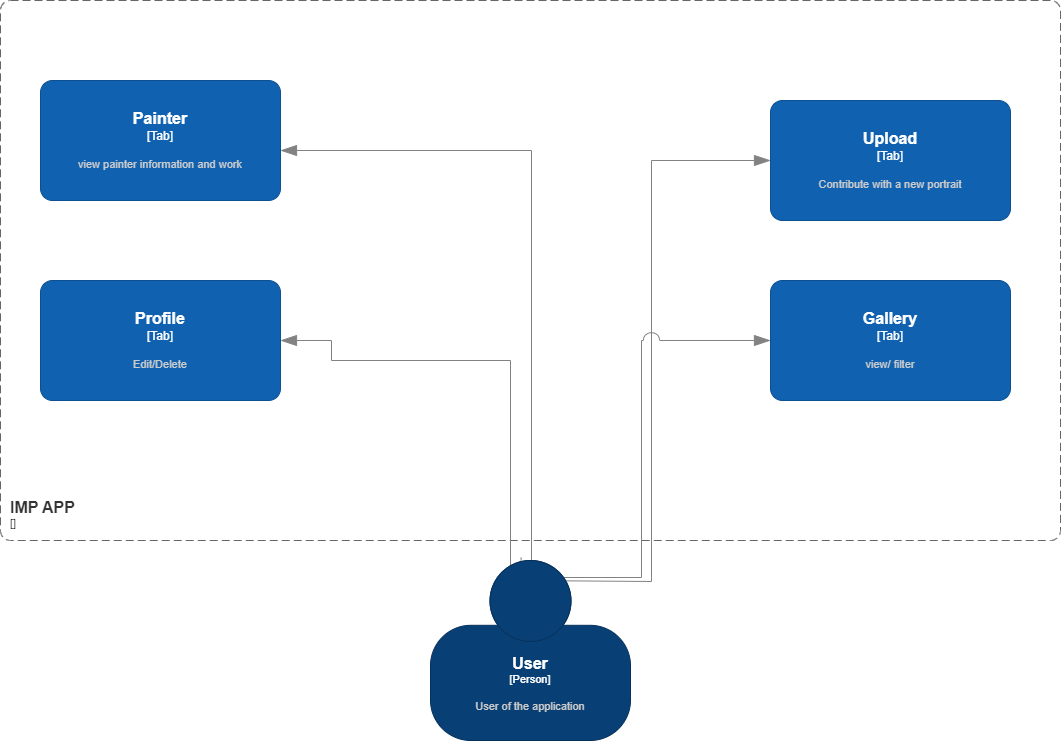
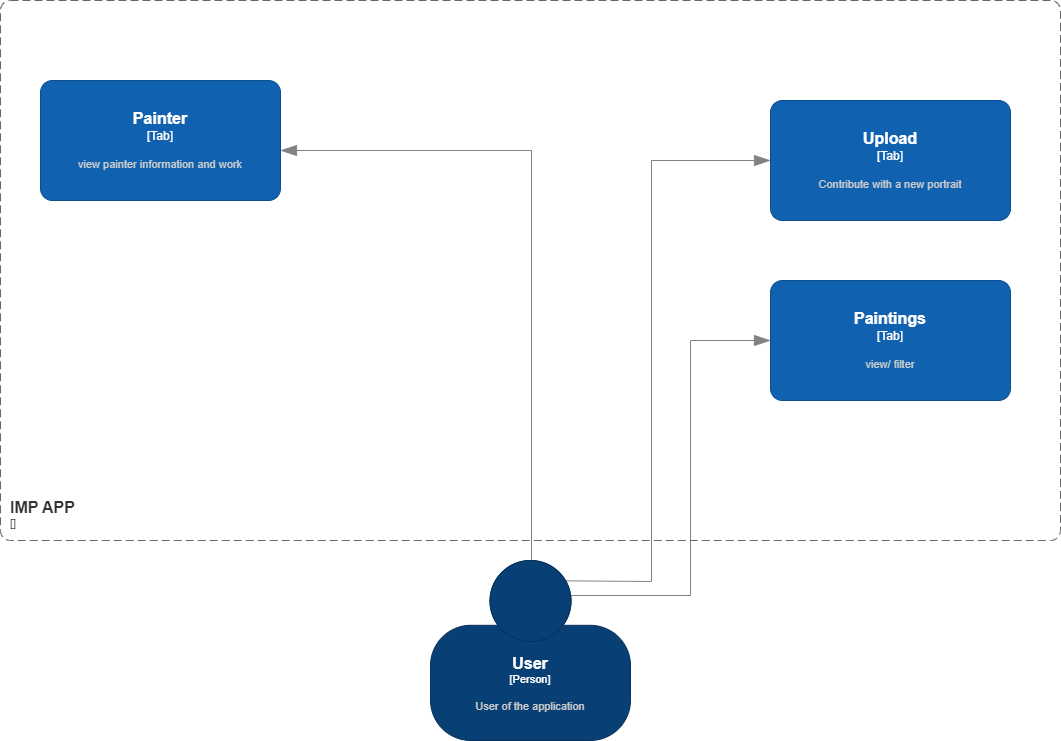
scholarly

Changed region(s): [[0.0311, 0.3725, 0.2799, 0.5587], [0.8087, 0.4035, 0.8709, 0.4345]]

diff --git a/Midterm Deliverables/scholarly.html b/Midterm Deliverables/scholarly.html
@@ -3,13 +3,25 @@
 <head>
     <title>Technical Report: ImP Project Solution</title>
     <meta name="description" content="A technical report on a web application that provides detailed analysis of portraits from 1900 - 1950 using DeepFace.">
-    <link rel="stylesheet" type="text/css" href="styles.css">
+    <!-- <link rel="stylesheet" type="text/css" href="styles.css"> -->
+    <link rel="stylesheet" type="text/css" href="scholarly.min.css">
 </head>
 <body>
     <header>
-        <h1>Technical Report: ImP Project Solution</h1>
+        <h1>Technical Report:<br> ImP Project Solution</h1>
         <p>A browsing image system for portraits from 1850 - 1950 using DeepFace and Wikipedia API.</p>
     </header>
+    <div role="contentinfo">
+        <dl>
+            <dt>Authors</dt>
+            <dd>
+                Maria-Ecaterina Olariu
+                &amp;
+                Ioana-Malina Pinzariu
+
+            </dd>
+        </dl>
+    </div>
     <main>
         <div id="table-of-contents">
             <h2>Table of Contents</h2>
@@ -20,7 +32,10 @@
                 <li><a href="#data-structures">Data Structures / Models</a></li>
                 <li><a href="#ontology">Data representation</a></li>
                 <li><a href="#data-flow">Data Flow</a></li>
-                <li><a href="#user-guide">Use Cases</a></li>
+                <li><a href="#api">Api</a></li>
+                <li><a href="#use-cases">Use Cases</a></li>
+                <li><a href="#user-guide">User guide</a></li>
+                <li><a href="#data-vizualization">Data vizualization</a></li>
                 <li><a href="#linked-data-principles">Conformance to Linked Data Principles</a></li>
                 <li><a href="#rdf-model">Conformation to RDF model</a></li>
                 <li><a href="#preliminary-considerations">Preliminary Considerations</a></li>
@@ -34,7 +49,7 @@
         </section>
         <section id="architecture">
             <h2>Architecture</h2>
-            <p>The application consists of multiple components including a frontend part in Angular, an ASP.NET Core server and Flask. The project includes a user service that manages the authentication, as well as data management services: painting and painters.
+            <p>The application consists of multiple components including a frontend part in Angular, and a Flask server. The project includes a user service that manages the authentication, as well as data management services: painting and painters.
                 This modules are designed as microservices and all the information is stored in MongoDB Atlas.
             </p>
             <h3>General</h3>
@@ -51,11 +66,12 @@
         </section>
         <section id="data-structures">
             <h2>Data Structures / Models</h2>
-            <p>Structure of the database is made of two main entities: Painters and Paintings. Another entity would be the user that will require some form of authentication in order to get the privilege of uploading portraits and contributing to the dataset.</p>
+            <p>Structure of the database is made of two main entities: Painters and Paintings.</p>
 
-            <p>The main format of our data is JSON. This is the reason why we chose MongoDB as our database system. As previously stated, our main concern is the two main entities: Painters and Paintings. Each will become a collection of data:</p>
-            <p>Each document in the <b>Paintings collection</b> will represent a single painting. The document will contain fields for: the image itself, the name of the painter, and from DeepFace detection: the age, gender, race, and emotion. Following the JSON LD encoding specifications, we will also include “@context” and “@type” for each painting stating the context of our data - schema.org - and VisualArtwork for defining the type of data, respectively.</p>
-            <p>The <b>Painters collection</b> contains the representations of each painter. The document includes the following fields: the painter's name, the information from the Wikipedia API (such as the art current, years they were alive, and a short description). For “@context”, we will include schema.org and follow the vocabulary guidelines presented for description, art current, birth and death date. For “@type”, since we are referring to a person, it will remain Person.</p>
+            <p>The main format of our data is JSON. This is the reason why we chose MongoDB as our database system. Mongo is also a good choice from a security point of view, because we have the possibility to set a list of ips that have access to the database</p>
+            <p>As previously stated, our main concern is the two main entities: Painters and Paintings. Each will become a collection of data:</p>
+            <p>Each document in the <b>Paintings collection</b> will represent a single painting. The document will contain fields for: the image itself, the name of the painter, and from DeepFace detection: the age, gender, race, and emotion.</p>
+            <p>The <b>Painters collection</b> contains the representations of each painter. The document includes the following fields: the painter's name, the information from the Wikipedia API (such as the art current, years they were alive, and a short description). </p>
             <p>The Paintings and Painters data models are at the base of our application. In order to expose more functionalities and data about our paintings, we will include some Correlation Graphs for each painter to document their artistic choices. The correlations will be between the ages and emotions of the people portrayed and the gender and emotions. We are hopeful to find interesting associations or preferences of the painters. 
             </p>
             <p>In order to manage the data within our project, we have made use of the following main models which are aligned to the project's needs</p>
@@ -72,13 +88,12 @@
             </p>
                 <p>Ontology classes
                 <ul>
-                <li>
-                Painter: Represents individuals who create artefacts. This class encapsulates the attributes and relationships associated with painters.
-
-                </li>
-                <li>
-                    Portrait: Represents a certain type of art artifact. The portraits have attributes and relationships that were extracted using DeepFace and are related to the person in the portrait (ex: gender, race, age)
-                </li>
+                    <li>
+                        Painter: Represents individuals who create artefacts. This class encapsulates the attributes and relationships associated with painters.
+                    </li>
+                    <li>
+                        Portrait: Represents a certain type of art artifact. The portraits have attributes and relationships that were extracted using DeepFace and are related to the person in the portrait (ex: gender, race, age)
+                    </li>
                 </ul>
                 
             </p>
@@ -95,46 +110,106 @@
         </section>
         <section id="data-flow">
             <h2>Data Flow</h2>
-            <p>In this section we will describe how our data is being processed from start to finish. The journey of our data starts from the Kaggle dataset. The dataset only includes the images with a filename of pattern: “artist_name_number.jpg”. From the filename we will extract the name of the painter for each portrait. Since this is the only data about each painting that we have, so far, we will enrich it by using DeepFace analyze feature to add age, gender, race and emotion of each of the people in the portrait. The object returned by this library call also includes the position of the face, which we do not believe to be relevant for our application, only for the painter-paintings selection for sizing down our database later on. All this data, plus “@context” and “@type” VisualArtwork will constitute the JSON LD files for our database.
+            <p>In this section we will describe how our data is being processed from start to finish. The journey of our data starts from the Kaggle dataset. The dataset only includes the images with a filename of pattern: “artist_name_number.jpg”. From the filename we will extract the name of the painter for each portrait. Since this is the only data about each painting that we have, so far, we will enrich it by using DeepFace analyze feature to add age, gender, race and emotion of each of the people in the portrait. The object returned by this library call also includes the position of the face, which we do not believe to be relevant for our application, only for the painter-paintings selection for sizing down our database later on. 
             </p>
-            <p>After gathering all this data about our portraits, we move on to finding out more about our painters. To do so we will use Wikipedia API to search for a summary / description of the painter, the years it was alive and the art current they followed in their works. The “@type” for them is Person, and we add them to the painters collection of our Mongo database.</p>
+            <p>After gathering all this data about our portraits, we move on to finding out more about our painters. To do so we will use Wikipedia API to search for a summary / description of the painter, the years it was alive and the art current they followed in their works. Alter this step, we add them to the painters collection of our Mongo database.</p>
             <p>To be able to present all of our data, we will expose a few API endpoints from the backend of our application. We will then process the data in the frontend. Our users will be able to see a gallery view of some (or all) portraits, very similar to how the popular platform Pinterest looks like. Each painting will be clickable with a redirect to a page about the painter. The painter data on the page will be from the database and a correlation graph generated from querying the database.
             </p>
             <p>We will also have an upload image feature. For this feature, we will ask the user to choose from our list of painters and contribute with a portrait image that we do not feature from them. After making sure the image provided is of extension .jpeg/.jpg/.png/.gif, we will transmit this image and the name of the painter to be saved in our database. When saving to our database, there will be a Python script activated that processes the image using the DeepFace library to retrieve age, gender, race and emotion of the people in the uploaded image, in order to include this data in the JSON type file we will include in the database. </p>
+            <p>The last step our data goes through is inserting it into Blazegraph. For this we use a sparql query to insert information.</p>
+            <img src="../images/insert-query.png" alt="insert-example" width="850" height="350">
+        </section>
+        <section id="api">
+            <h2>API</h2>
+            <p>Our application implemented the APIs using Flask, due to its simplicity in launching a very simple server, capable of accepting multiple requests of different methods (POST, GET), accessing the request's data, handling user cookies, and having an easy way in which responses can be send back as JSON. The endpoints are described in much greater detail in the <a href="https://app.swaggerhub.com/apis/IOANAMALINA629/ImpWAPI/1" target="_blank">OpenAPI</a> specifications.</p>
+            <h3>Extrenal APIs</h3>
+            <p>We use DeepFaceAPI for facial attribute analysis which includes: age, gender, facial expression/emotion (anger, fear, neutral, sad, disgust, happiness, surprise) and race (Asian, White, Middle Eastern, Indian, Latino and Black) predictions. We call a function "analyze()" which takes as a parameter an image path and obtains for each portrait the data mentioned above.</p>
+            <p>We use the Wikipedia API to get information about each painter in the database, the ones we used are the years the artist lived, the artistic current and a short description of it</p>
+            <h3>Semantic API</h3>
+            <p>Our semantic API provides various endpoints that allow us to retrieve specific data based on our needs, such as getting portraits based on their emotion, retrieving a filtered list of portraits based on their painter, or getting the painter informaton for a selected portrait. All this information is integrated into our web application and can be accessed through the Portraits page.
+            </p>
+            <p>Valid html + RDFa generation: 
+                <br><img src="../images/rdfa.png" alt="rdfa" width="850" height="350">
+            <br><img src="../images/rdfa-graph.png" alt="rdfa-graph" width="850" height="350"><br>
+            </p>
+            <p>Valid jsonLD generation: 
+                <br><img src="../images/jsonld.png" alt="jsonld" width="850" height="350">
+                <br><img src="../images/jsonld-rep.png" alt="jsonLD" width="850" height="350"><br>
+            </p> 
+        
+            <p>Some sparql queries:
+                <br><img src="../images/insert-sparql.png" alt="sparql" width="850" height="350"/> 
+                <br><img src="../images/filter-sparql.png" alt="sparql" width="850" height="350"/><br>
+            </p>
         </section>
         <section id="use-cases">
             <h2>Use cases</h2>
             <h3>Task flows</h3>
-            <h4>Login/Register</h4>
-            <p>In order for the user to have access to our web application, it is mandatory to create an account first. This will be done with our custom login/register or we are considering allowing authentication using a service like Google, to make the process easier for users.
-                The Authentication Service is designed to be secure for users by implementing a method of storing and validating user credentials. For this reason, the password will be saved after is proccessed using an ecryption method, that involves a combination of hash and salt</p>
-                <img src="../images/login.png" alt="Login diagram" width="500" height="460">
             <h4>General user acccess</h4>
             <p>The user cam perform the following actions:
                 <ul>
-                    <li>Updating their personal profile.</li>
-                    <li>Deleting their profile</li>
-                    <li>Uploading a new image for existing painters</li>
+                    <li>Uploading a new image</li>
                     <li>View image gallery and filter the date acording to his preferences</li>
                     <li>Visualizing the painter information page</li> 
                 </ul>
                 <img src="../images/general-user.png" alt="general-user" width="500" height="460"/>
             </p>
-            <h4>Home/Gallery</h4>
+            <h4>Home/Paintings</h4>
             <p>On this page we will have a gallery of portraits from different painter. The user will be able to apply filters like: gender, painter and serch for images</p>
             <img src="../images/paintings.png" alt="paintings-gallery" width="500" height="460"/>
             <h4>Painter page</h4>
-            <p>The user can access thihs page by clicking on an image from the gallery. Here we will present some information abou the artist and some other paintings. The page allows the user to know information about the artist such as his artistic current and to discover other works of art.</p>
+            <p>The user can access this page by clicking on an image from the gallery. Here we will present some information abou the artist and some other paintings. The page allows the user to know information about the artist such as his artistic current and to discover other works of art.</p>
             <img src="../images/painter.png" alt="painter-page" width="500" height="460"/>
             <h4>Upload</h4>
-            <p>The upload page lets the user contribute to our paintings collection. The user will be able to upload a new painting from a painter we already have in our database, so we can have multiple recommendations</p>
+            <p>The upload page lets the user contribute to our paintings collection. The user will be able to upload a new painting, so we can have multiple recommendations</p>
             <img src="../images/upload.png" alt="upload-process" width="500" height="460"/>
-            <h4>User Profile</h4>
-            <p>The user will be able to view his profile, make changes and even delete his account</p>
-            <img src="../images/user-profile.png" alt="user-profile" width="500" height="460"/>
         </section>
         <section id="user-guide">
-
+            <h2>User guide</h2>
+            <h3>Local environment</h3>
+            <h5>The following system requirements are necessary in order to run our code on a local machine:</h5>
+            <p>For the frontend the following are needed:
+                @angular/animations: ^17.1.0,
+                @angular/cdk: ^17.1.1,
+                @angular/common: ^17.1.0,
+                @angular/compiler: ^17.1.0,
+                @angular/core: ^17.1.0,
+                @angular/forms: ^17.1.0,
+                @angular/material: ^17.1.2,
+                @angular/platform-browser: ^17.1.0,
+                @angular/platform-browser-dynamic: ^17.1.0,
+                @angular/router": ^17.1.0,
+                rxjs: ~7.8.0,
+                tslib: ^2.3.0,
+                zone.js: ~0.14.3
+            </p>
+            <p>For the backend side:
+                deepface==0.0.79
+                Flask==2.1.2
+                Flask_Cors==4.0.0
+                opencv_python==4.8.1.78
+                pymongo==4.6.1
+                rdflib==7.0.0
+                requests==2.27.1
+                SPARQLWrapper==2.0.0
+            </p>
+            <p>If is needed, local BlazeGraph can be configured and populated with data using the ontology.py file.</p>
+            <h3>User interface</h3>
+            <p>The <i>Paintings</i> page displays a collection of images in a visually appealing layout, allowing users to view multiple images at once. </p>
+            <img src="../images/paintigs.png" alt="paintings" width="800"/><br>
+            <p>This page has smart faceted searching & filtering, designed to efficiently search and filter through a collection of images based on various attributes or categories. </p>
+            <img src="../images/filter-images.png" alt="paintings" width="800"/><br>
+            <p> The <i>Painter</i> Page is designed to provide users with information regarding the artist whose artwork they've just clicked on. By clicking on an image on the "Paintings" page, users are redirected to this dedicated page, where they can explore the painter's background and view more of their artwork.</p>
+            <img src="../images/painter-page.png" alt="painter" width="800"/><br>
+            <p>The image upload functionality, available in <i>Upload</i> is clicked, is a feature designed to allow users to upload images, which will later be visible on the "Pictures" page of the application. Upon upload, the image is processed by external APIs and saved to both MongoDB and BlazeGraph, ensuring efficient storage and retrieval.</p>
+            <img src="../images/upload-page.png" alt="upload" width="800" /><br>
+        </section>
+        <section id="data-vizualization">
+            <h2>Visualizations of Data</h2>
+            <p>Our application exposes several portraits that can be filtered by features extracted with DeepFace. An overview of the data can be found in the following charts</p>
+            <img src="../images/emootion.png" alt="emotion"/>
+            <img src="../images/gender.png" alt="gender"/><br>
+            <img src="../images/race.png" alt="race"/><br>
         </section>
         <section id="linked-data-principles">
             <h2>Conformance to Linked Data Principles</h2>
@@ -163,7 +238,7 @@
                 The Resource Description Framework (RDF) is a standard model for data interchange on the Web. RDF has features that facilitate data merging even if the underlying schemas differ, and it specifically supports the evolution of schemas over time without requiring all the data consumers to be changed.
             </p>
             <p>
-                RDF extends the linking structure of the Web to use URIs to name the relationship between things as well as the two ends of the link (this is usually referred to as a “triple”). In our application, the data models for Paintings and Painters can be structured as triples, which is the standard format for RDF. Each triple consists of a subject, predicate, and object, which correspond to the painting or painter, the property, and the value of the property, respectively. Let's consider painting_id as the subject (Each painting will have an id). “@type”, image, painter, age, gender, race, and emotion are the predicates, and VisualArtwork, <image_url>, "Painter's_Name", 30, "Male", "Asian", and "Happy" are the objects.
+                RDF extends the linking structure of the Web to use URIs to name the relationship between things as well as the two ends of the link (this is usually referred to as a “triple”). In our application, the data models for Paintings and Painters are structured as triples, which is the standard format for RDF. Each triple consists of a subject, predicate, and object, which correspond to the painting or painter, the property, and the value of the property, respectively.
             </p>
         </section>
         <section id="preliminary-considerations">

diff --git a/Midterm Deliverables/scholarly.min.css b/Midterm Deliverables/scholarly.min.css
@@ -1,0 +1,1 @@
+/*! normalize.css v3.0.3 | MIT License | github.com/necolas/normalize.css */html{font-family:sans-serif;-ms-text-size-adjust:100%;-webkit-text-size-adjust:100%}body{margin:0}article,aside,details,figcaption,figure,footer,header,hgroup,main,menu,nav,section,summary{display:block}audio,canvas,progress,video{display:inline-block;vertical-align:baseline}audio:not([controls]){display:none;height:0}[hidden],template{display:none}a{background-color:transparent}a:active,a:hover{outline:0}abbr[title]{border-bottom:1px dotted}b,strong{font-weight:700}dfn{font-style:italic}h1{font-size:2em;margin:.67em 0}mark{background:#ff0;color:#000}small{font-size:80%}sub,sup{font-size:75%;line-height:0;position:relative;vertical-align:baseline}sup{top:-.5em}sub{bottom:-.25em}img{border:0}svg:not(:root){overflow:hidden}figure{margin:1em 40px}hr{box-sizing:content-box;height:0}pre{overflow:auto}code,kbd,pre,samp{font-family:monospace;font-size:1em}button,input,optgroup,select,textarea{color:inherit;font:inherit;margin:0}button{overflow:visible}button,select{text-transform:none}button,html input[type=button],input[type=reset],input[type=submit]{-webkit-appearance:button;cursor:pointer}button[disabled],html input[disabled]{cursor:default}button::-moz-focus-inner,input::-moz-focus-inner{border:0;padding:0}input{line-height:normal}input[type=checkbox],input[type=radio]{box-sizing:border-box;padding:0}input[type=number]::-webkit-inner-spin-button,input[type=number]::-webkit-outer-spin-button{height:auto}input[type=search]{-webkit-appearance:textfield;box-sizing:content-box}input[type=search]::-webkit-search-cancel-button,input[type=search]::-webkit-search-decoration{-webkit-appearance:none}fieldset{border:1px solid silver;margin:0 2px;padding:.35em .625em .75em}legend{border:0;padding:0}textarea{overflow:auto}optgroup{font-weight:700}table{border-collapse:collapse;border-spacing:0}td,th{padding:0}@font-face{font-family:Roboto;font-weight:300;font-style:normal;src:url(../fonts/Roboto-300/Roboto-300.eot);src:url(../fonts/Roboto-300/Roboto-300.eot?#iefix) format('embedded-opentype'),local('Roboto Light'),local('Roboto-300'),url(../fonts/Roboto-300/Roboto-300.woff2) format('woff2'),url(../fonts/Roboto-300/Roboto-300.woff) format('woff'),url(../fonts/Roboto-300/Roboto-300.ttf) format('truetype'),url(../fonts/Roboto-300/Roboto-300.svg#Roboto) format('svg')}@font-face{font-family:Roboto;font-weight:700;font-style:normal;src:url(../fonts/Roboto-700/Roboto-700.eot);src:url(../fonts/Roboto-700/Roboto-700.eot?#iefix) format('embedded-opentype'),local('Roboto Bold'),local('Roboto-700'),url(../fonts/Roboto-700/Roboto-700.woff2) format('woff2'),url(../fonts/Roboto-700/Roboto-700.woff) format('woff'),url(../fonts/Roboto-700/Roboto-700.ttf) format('truetype'),url(../fonts/Roboto-700/Roboto-700.svg#Roboto) format('svg')}@font-face{font-family:Roboto;font-weight:300;font-style:italic;src:url(../fonts/Roboto-300italic/Roboto-300italic.eot);src:url(../fonts/Roboto-300italic/Roboto-300italic.eot?#iefix) format('embedded-opentype'),local('Roboto Light Italic'),local('Roboto-300italic'),url(../fonts/Roboto-300italic/Roboto-300italic.woff2) format('woff2'),url(../fonts/Roboto-300italic/Roboto-300italic.woff) format('woff'),url(../fonts/Roboto-300italic/Roboto-300italic.ttf) format('truetype'),url(../fonts/Roboto-300italic/Roboto-300italic.svg#Roboto) format('svg')}@font-face{font-family:Roboto;font-weight:700;font-style:italic;src:url(../fonts/Roboto-700italic/Roboto-700italic.eot);src:url(../fonts/Roboto-700italic/Roboto-700italic.eot?#iefix) format('embedded-opentype'),local('Roboto Bold Italic'),local('Roboto-700italic'),url(../fonts/Roboto-700italic/Roboto-700italic.woff2) format('woff2'),url(../fonts/Roboto-700italic/Roboto-700italic.woff) format('woff'),url(../fonts/Roboto-700italic/Roboto-700italic.ttf) format('truetype'),url(../fonts/Roboto-700italic/Roboto-700italic.svg#Roboto) format('svg')}@font-face{font-family:Roboto Mono;font-weight:300;font-style:normal;src:url(../fonts/Roboto-Mono-300/Roboto-Mono-300.eot);src:url(../fonts/Roboto-Mono-300/Roboto-Mono-300.eot?#iefix) format('embedded-opentype'),local('Roboto Mono Light'),local('Roboto-Mono-300'),url(../fonts/Roboto-Mono-300/Roboto-Mono-300.woff2) format('woff2'),url(../fonts/Roboto-Mono-300/Roboto-Mono-300.woff) format('woff'),url(../fonts/Roboto-Mono-300/Roboto-Mono-300.ttf) format('truetype'),url(../fonts/Roboto-Mono-300/Roboto-Mono-300.svg#RobotoMono) format('svg')}@font-face{font-family:Roboto Mono;font-weight:700;font-style:normal;src:url(../fonts/Roboto-Mono-700/Roboto-Mono-700.eot);src:url(../fonts/Roboto-Mono-700/Roboto-Mono-700.eot?#iefix) format('embedded-opentype'),local('Roboto Mono Bold'),local('Roboto-Mono-700'),url(../fonts/Roboto-Mono-700/Roboto-Mono-700.woff2) format('woff2'),url(../fonts/Roboto-Mono-700/Roboto-Mono-700.woff) format('woff'),url(../fonts/Roboto-Mono-700/Roboto-Mono-700.ttf) format('truetype'),url(../fonts/Roboto-Mono-700/Roboto-Mono-700.svg#RobotoMono) format('svg')}body{max-width:21cm;margin:auto;line-height:1.6;font-weight:300;font-family:Roboto,sans-serif}header>h1{margin:0;font-size:3em;padding-top:4em}div.banner{display:-webkit-flex;display:-ms-flexbox;display:flex;-webkit-justify-content:space-between;-ms-flex-pack:justify;justify-content:space-between}div.banner>img{height:100%}div.banner>div.status{color:#fff;background:#9400bf;width:350px;padding:10px;text-align:right}h1,h2,h3,h4,h5,h6{letter-spacing:.0375em}h1,h2{color:#4b0061}h2{margin-top:3em}h3{margin-top:2.5em}h4{font-weight:300;font-size:1.2em;-webkit-font-feature-settings:"c2sc";font-feature-settings:"c2sc";font-variant:small-caps;margin:2em 0 .5em}[role=contentinfo] a{text-decoration:none}[role=directory] ol,ol[role=directory]{list-style-type:none}[role=contentinfo] dt{font-weight:700}[role=contentinfo] dd{margin-bottom:1em}a.onto{text-decoration:none;background:linear-gradient(0deg,rgba(255,0,0,.4),rgba(255,0,0,.4) 15%,#fff 16%);color:#434343}a.onto,code,pre{font-family:Roboto Mono,monospace}p.issue{border-left:3px solid red;padding:.5em 1em}@media screen and (max-width:577px){div.status{width:auto}}@media screen and (max-width:980px){body{margin:0 2em}}

diff --git a/Midterm Deliverables/scholarly.css b/Midterm Deliverables/scholarly.css
@@ -1,0 +1,101 @@
+
+@import "normalize.css/normalize.css";
+@import "../fonts/roboto.css";
+@import "../fonts/roboto-mono.css";
+
+/*
+  XXX
+  figure styles
+  links
+*/
+
+body {
+  max-width: 21cm;
+  margin: auto;
+  line-height: 1.6;
+  font-weight: 300;
+  font-family: "Roboto", sans-serif;
+}
+
+/* headers & headings */
+header > h1 {
+  margin: 0;
+  font-size: 3em;
+  padding-top: 4em;
+}
+div.banner {
+  display: flex;
+  justify-content: space-between;
+}
+div.banner > img {
+  height: 100%;
+}
+div.banner > div.status {
+  color: #fff;
+  background: #9400bf;
+  width: 350px;
+  padding: 10px;
+  text-align: right;
+}
+h1, h2, h3, h4, h5, h6 {
+  letter-spacing: 0.0375em;
+}
+h1, h2 {
+  color: #4b0061;
+}
+h2 {
+  margin-top: 3em;
+}
+h3 {
+  margin-top: 2.5em;
+}
+h4 {
+  font-weight: 300;
+  font-size: 1.2em;
+  font-variant: small-caps;
+  margin: 2em 0 0.5em 0;
+}
+
+/* contentinfo */
+[role="contentinfo"] a {
+  text-decoration: none;
+}
+ol[role="directory"], [role="directory"] ol {
+  list-style-type: none;
+}
+[role="contentinfo"] dt {
+  font-weight: bold;
+}
+[role="contentinfo"] dd {
+  margin-bottom: 1em;
+}
+
+/* link types */
+a.onto {
+  font-family: "Roboto Mono", monospace;
+  text-decoration: none;
+  background: linear-gradient(to top, rgba(255, 0, 0, 0.4), rgba(255, 0, 0, 0.4) 15%, #fff 16%);
+  color: #434343;
+}
+
+/* code */
+code, pre {
+  font-family: "Roboto Mono", monospace;
+}
+
+/* special boxes */
+p.issue {
+  border-left: 3px solid red;
+  padding: 0.5em 1em;
+}
+
+@media screen and (max-width: 577px) {
+  div.status {
+    width: auto;
+  }
+}
+@media screen and (max-width: 980px) {
+  body {
+    margin: 0 2em;
+  }
+}
